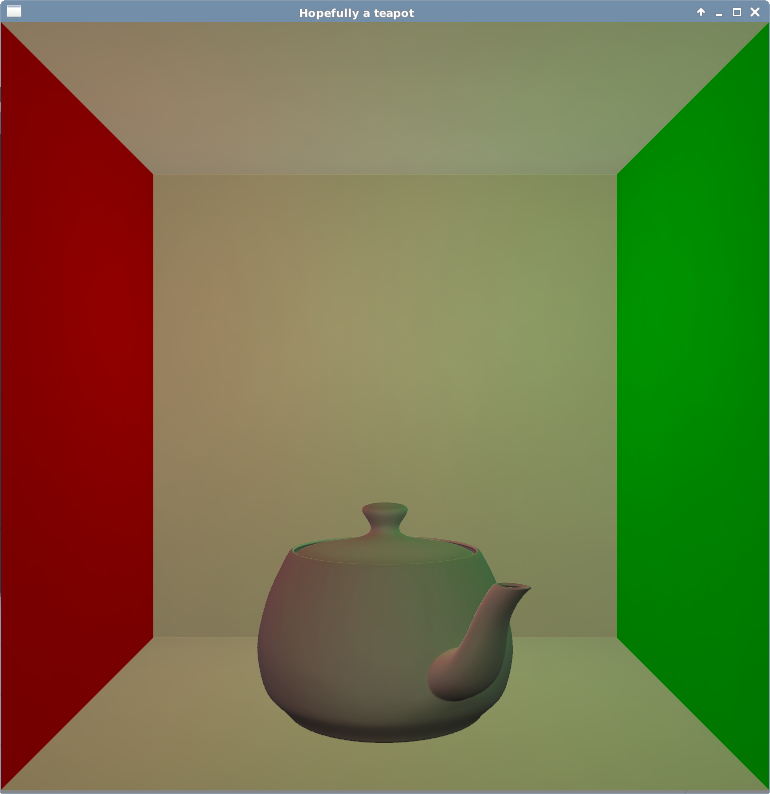
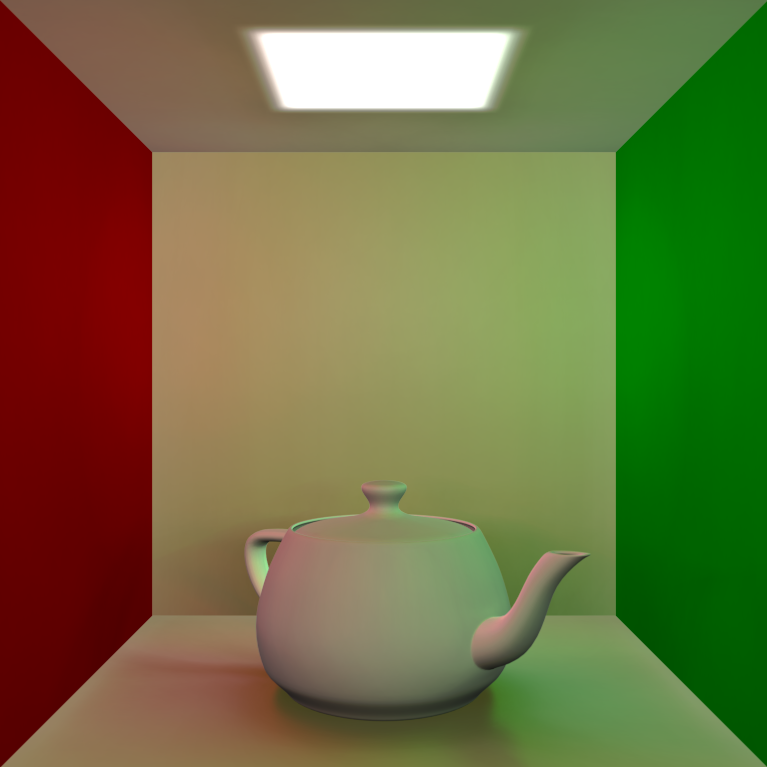
Added shaders that don't use lighting, tweaked some settings, and added anti-aliasing and a blur on the light

diff --git a/main.c b/main.c
@@ -147,6 +147,11 @@ void loadBox(float dx, float dy, float dz)
 	dx /= 2.0;
 	dy /= 2.0;
 	dz /= 2.0;
+
+	Vector3f red = {1.0, 0.0, 0.0};
+	Vector3f green = {0.0, 1.0, 0.0};
+	Vector3f white = {1.0, 1.0, 1.0};
+
 	Vector3f vertices[] = 
 	{
 		// Back Face
@@ -208,30 +213,48 @@ void loadBox(float dx, float dy, float dz)
 	Vector3f colors[] = 
 	{
 		// Back Face
-		{	 1.0,  1.0,  1.0	},
-	 	{	 1.0,  1.0,  1.0	},
-		{	 1.0,  1.0,  1.0	},
-		{	 1.0,  1.0,  1.0	},
+		white, white, white, white,
 		// Right Face
-		{	 0.0,  1.0,  0.0	},
-	 	{	 0.0,  1.0,  0.0	},
-		{	 0.0,  1.0,  0.0	},
-		{	 0.0,  1.0,  0.0	},
+		green, green, green, green,
 		// Left Face
-		{	 1.0,  0.0,  0.0	},
-	 	{	 1.0,  0.0,  0.0	},
-		{	 1.0,  0.0,  0.0	},
-		{	 1.0,  0.0,  0.0	},
+		red, red, red, red,
 		// Top Face
-		{	 1.0,  1.0,  1.0	},
-	 	{	 1.0,  1.0,  1.0	},
-		{	 1.0,  1.0,  1.0	},
-		{	 1.0,  1.0,  1.0	},
+		white, white, white, white,
 		// Bottom Face
-		{	 1.0,  1.0,  1.0	},
-	 	{	 1.0,  1.0,  1.0	},
-		{	 1.0,  1.0,  1.0	},
-		{	 1.0,  1.0,  1.0	}
+		white, white, white, white
+	};
+
+	Vector2f texCoords[] =
+	{
+		{	0.0,  0.0	},
+		{	1.0,  0.0	},
+		{	1.0,  1.0	},
+		{	0.0,  1.0	},
+
+		{	0.0,  0.0	},
+		{	1.0,  0.0	},
+		{	1.0,  1.0	},
+		{	0.0,  1.0	},
+
+		{	0.0,  0.0	},
+		{	1.0,  0.0	},
+		{	1.0,  1.0	},
+		{	0.0,  1.0	},
+
+		{	0.0,  0.0	},
+		{	1.0,  0.0	},
+		{	1.0,  1.0	},
+		{	0.0,  1.0	},
+
+		{	0.0,  0.0	},
+		{	1.0,  0.0	},
+		{	1.0,  1.0	},
+		{	0.0,  1.0	},
+
+		{	0.0,  0.0	},
+		{	1.0,  0.0	},
+		{	1.0,  1.0	},
+		{	0.0,  1.0	}
 	};
 	
 	sceneData.box.vertices = malloc(sizeof(Vector3f) * 20);
@@ -257,10 +280,10 @@ void loadTopLight(float dx, float dy, float dz)
 	Vector3f vertices[] = 
 	{
 		// Top Light
-		{	-dx/3.0,  dy-0.001,  dz/3.0	},
-		{	-dx/3.0,  dy-0.001, -dz/3.0	},
-		{	 dx/3.0,  dy-0.001, -dz/3.0	},
-		{	 dx/3.0,  dy-0.001,  dz/3.0	}
+		{	-dx/3.0,  0.0,  dz/3.0	},
+		{	-dx/3.0,  0.0, -dz/3.0	},
+		{	 dx/3.0,  0.0, -dz/3.0	},
+		{	 dx/3.0,  0.0,  dz/3.0	}
 	};
 
 	Vector3f normals[] =
@@ -296,27 +319,44 @@ void loadTopLight(float dx, float dy, float dz)
 	}
 }
 
-void display() 
+float myrand() { return ((float)(rand() % 100000)/100000.0 - 0.5); }
+
+// flag - 0 = render with shadows, 1 = render without shadows
+void display(int flag) 
 {
 	glClear(GL_COLOR_BUFFER_BIT|GL_DEPTH_BUFFER_BIT);
 
 	glEnableClientState(GL_COLOR_ARRAY);
 	glUseProgram(0);
 
+	Vector3f lightJitter = {myrand()*0.4, myrand()*0.07, myrand()*0.07}; //myrand()*0.05};
+	Vector3f aaJitter = {myrand(), myrand(), myrand()};
+	aaJitter = mul(aaJitter, 0.003);
+
 	// Render light
 	glVertexPointer(3, GL_FLOAT, 0, sceneData.toplight.vertices);
 	glColorPointer(3, GL_FLOAT, 0, sceneData.toplight.colors);
 	glNormalPointer(GL_FLOAT, 0, sceneData.toplight.normals);
-	glDrawElements(GL_QUADS, 4, GL_UNSIGNED_BYTE, sceneData.toplight.indices);
+	glPushMatrix();
+		glTranslatef(lightJitter.y, 0.9999, lightJitter.z);
+		glScalef(1.0-lightJitter.x, 1.0-lightJitter.x, 1.0-lightJitter.x);
+		glDrawElements(GL_QUADS, 4, GL_UNSIGNED_BYTE, sceneData.toplight.indices);
+	glPopMatrix();
 
-	glUseProgram(boxShaderProgramID);
+	glUseProgram(phongProgramID);
+
+	if (!flag) glUseProgram(boxShaderProgramID);
 	// Load box data into GPU
 	glVertexPointer(3, GL_FLOAT, 0, sceneData.box.vertices);
 	glColorPointer(3, GL_FLOAT, 0, sceneData.box.colors);
 	glNormalPointer(GL_FLOAT, 0, sceneData.box.normals);
-	glDrawElements(GL_QUADS, 20, GL_UNSIGNED_BYTE, sceneData.box.indices);
 
-	glUseProgram(teapotShaderProgramID);
+	glPushMatrix();
+		glTranslatef(aaJitter.x, aaJitter.y, aaJitter.z);
+		glDrawElements(GL_QUADS, 20, GL_UNSIGNED_BYTE, sceneData.box.indices);
+	glPopMatrix();
+
+	if (!flag) glUseProgram(teapotShaderProgramID);
 
 	// Load teapot data into GPU
 	glVertexPointer(3, GL_FLOAT, 0, sceneData.teapot.vertices);
@@ -325,7 +365,7 @@ void display()
 
 	// Stores the current matrix configuration to allow for local transformations
 	glPushMatrix();
-		glTranslatef(0.0, -1.0, 0.0);
+		glTranslatef(aaJitter.x, aaJitter.y-1.0, aaJitter.z);
 		glRotatef(50.0, 0.0, 1.0, 0.0);
 		glScalef(0.5, 0.5, 0.5);
 		glDrawElements(GL_QUADS, sceneData.teapot.curIndex, GL_UNSIGNED_INT, sceneData.teapot.indices);
@@ -356,12 +396,12 @@ int createLights(Vector3f pos, Vector3f color) {
   //glLightfv(GL_LIGHT0,GL_AMBIENT,light0_ambient);
   glLightfv(GL_LIGHT0,GL_DIFFUSE,light0_diffuse);
   glLightfv(GL_LIGHT0,GL_SPECULAR,light0_specular);
-/*  glLightf(GL_LIGHT0,GL_SPOT_EXPONENT,1.0);
-  glLightf(GL_LIGHT0,GL_SPOT_CUTOFF,180.0);
+  //glLightf(GL_LIGHT0,GL_SPOT_EXPONENT,1.0);
+  //glLightf(GL_LIGHT0,GL_SPOT_CUTOFF,180.0);
   glLightf(GL_LIGHT0,GL_CONSTANT_ATTENUATION,0.5);
   glLightf(GL_LIGHT0,GL_LINEAR_ATTENUATION,0.001);
   glLightf(GL_LIGHT0,GL_QUADRATIC_ATTENUATION,0.0001);
-*/  glLightfv(GL_LIGHT0,GL_POSITION,light0_position);
+  glLightfv(GL_LIGHT0,GL_POSITION,light0_position);
   glLightfv(GL_LIGHT0,GL_SPOT_DIRECTION,light0_direction);
 
   glEnable(GL_LIGHT0);
@@ -542,7 +582,7 @@ void renderWithShadows(Vector3f lightPosition, Vector3f lightColor)
 
 		Vector3f l0_pos = {light0_position[0], light0_position[1], light0_position[2]};
 		createLights(l0_pos, lightColor);
-		display();
+		display(0);
 	glBindFramebufferEXT(GL_FRAMEBUFFER, 0);
 
 	// Store this viewpoint matrix into texture matrix 7
@@ -555,13 +595,13 @@ void renderWithShadows(Vector3f lightPosition, Vector3f lightColor)
 	glBindTexture(GL_TEXTURE_2D, 1);
 
 	eyepoint[0] = 0.0, eyepoint[1] = 0.0, eyepoint[2] = -3.0;
-	viewpoint[0] = 0.0, viewpoint[1] = 0.0, viewpoint[2] = 3.0;
+	viewpoint[0] = 0.0, viewpoint[1] = 0.0, viewpoint[2] = 0.0;
 
 	ep.x = eyepoint[0], ep.y = eyepoint[1], ep.z = eyepoint[2];
 	vp.x = viewpoint[0], vp.y = viewpoint[1], vp.z = viewpoint[2];
 	createViewVolume(ep, vp);
 	createLights(l0_pos, lightColor);
-	display();
+	display(0);
 }
 
 int trace(int j, int N, Vector3f currentRay, Vector3f v0, Vector3f v1, Vector3f v2)
@@ -576,10 +616,12 @@ int trace(int j, int N, Vector3f currentRay, Vector3f v0, Vector3f v1, Vector3f 
 		if (lightPosition.y <= 0.0) lightPosition.y = 0.0;
 
 		color = sceneData.box.colors[j];
-		color = mul(color, 0.5);
+		color = mul(color, 0.5); // Dampen the colors
+
 
 		renderWithShadows(lightPosition, color);
 
+		//glAccum(GL_ACCUM, 1.0/(float)N * 0.7);
 		glAccum(GL_ACCUM, 1.0/(float)N);
 		return 1;
 	}
@@ -588,8 +630,20 @@ int trace(int j, int N, Vector3f currentRay, Vector3f v0, Vector3f v1, Vector3f 
 
 void renderScene()
 {
-	int N = 300;
+	int N = 1000;
 	glClear(GL_ACCUM_BUFFER_BIT);
+
+/*
+	Vector3f lightPos = {0.0, 0.0, 0.0};
+	Vector3f lightColor = {1.0, 1.0, 0.8};
+	Vector3f eyePos = {0.0, 0.0, -3.0};
+	Vector3f viewPos = {0.0, 0.0, 3.0};
+
+	createViewVolume(eyePos, viewPos);
+	createLights(lightPos, lightColor);
+	display(1);
+	glAccum(GL_ACCUM, 1.0 * 0.3);
+*/
 
 	int i;
 	for (i = 0; i < N; i++)
@@ -601,7 +655,7 @@ void renderScene()
 
 		int j;
 
-		// Make sure the ray is at least a candidate to hit the teapot
+		// Make sure the ray is at least a candidate to hit the teapot (pruning)
 		if (currentRay.y < 0.0 && abs(currentRay.x) < 0.4 && abs(currentRay.z) < 0.4) {
 
 			// Take this out if you want to render A LOT faster
@@ -631,14 +685,8 @@ void renderScene()
 
 		for (j = 0; j < 20; j+=4)
 		{
+			//Pruning
 			switch(j) {
-				//back
-				case 0:
-				case 1:
-				case 2:
-				case 3:
-					if (currentRay.z < 0.0) continue;
-					break;
 				//right
 				case 4:
 				case 5:
@@ -653,22 +701,10 @@ void renderScene()
 				case 11:
 					if (currentRay.x < 0.0) continue;
 					break;
-				//top
-				case 12:
-				case 13:
-				case 14:
-				case 15:
-					if (currentRay.y < 0.0) continue;
-					break;
-				//bottom
-				case 16:
-				case 17:
-				case 18:
-				case 19:
-				case 20:
-					if (currentRay.y > 0.0) continue;
+				default:
 					break;
 			}
+			
 			v0 = sceneData.box.vertices[j];
 			v1 = sceneData.box.vertices[j+1];
 			v2 = sceneData.box.vertices[j+2];
@@ -698,7 +734,9 @@ void prepareFramebuffer()
 	// Back to default.
 	glBindTexture(GL_TEXTURE_2D, 0);
 
-	glBindFramebufferEXT(GL_FRAMEBUFFER,1);
+	GLuint frameBufferID;
+	glGenFramebuffers(1, &frameBufferID);
+	glBindFramebufferEXT(GL_FRAMEBUFFER,frameBufferID);
 	glDrawBuffer(GL_NONE); // No color buffers will be written.
 	// Attach this framebuffer (id #1 above) to texture (id #1 is penultimate arg),
 	// so that we can perform an offscreen render-to-texture.
@@ -707,13 +745,48 @@ void prepareFramebuffer()
 	glBindFramebufferEXT(GL_FRAMEBUFFER,0);
 }
 
+int loadTexture(const char *filename) {
+	FILE *fopen(), *fptr;
+	char buf[512];
+	int im_size, im_width, im_height, max_color;
+	unsigned char *texture_bytes, *parse;
+
+	fptr=fopen(filename,"r");
+	if (!fptr) return -1;
+	fgets(buf,512,fptr);
+	do{
+	fgets(buf,512,fptr);
+	} while(buf[0]=='#');
+
+	parse = strtok(buf," \t");
+	im_width = atoi(parse);
+
+	parse = strtok(NULL," \n");
+	im_height = atoi(parse);
+
+	fgets(buf,512,fptr);
+	parse = strtok(buf," \n");
+	max_color = atoi(parse);
+
+	im_size = im_width*im_height;
+	texture_bytes = (unsigned char *)calloc(3,im_size);
+	fread(texture_bytes,3,im_size,fptr);
+	fclose(fptr);
+	glGenTextures(1, &floorTextureID);
+	glBindTexture(GL_TEXTURE_2D, floorTextureID);
+	glTexImage2D(GL_TEXTURE_2D,0,GL_RGB,im_width,im_height,0,GL_RGB,
+	           GL_UNSIGNED_BYTE,texture_bytes);
+	glTexParameterf(GL_TEXTURE_2D,GL_TEXTURE_MIN_FILTER,GL_NEAREST);
+	glTexParameterf(GL_TEXTURE_2D,GL_TEXTURE_MAG_FILTER,GL_NEAREST);
+	cfree(texture_bytes);
+
+	return 0;
+}
+
 int main(int argc, char **argv) 
 {
 	init(argc, argv);
 
-	// This prepares the framebuffer to be filled with the depth component\
-	//     and tells OpenGL that the framebuffer should be stored in a texture with id = 1
-	// It doesn't actually fill the framebuffer with any data
 	printf("Preparing Framebuffer...\n");
 	prepareFramebuffer();
 
@@ -725,6 +798,7 @@ int main(int argc, char **argv)
 	printf("Loading Shaders...\n");
 	boxShaderProgramID = loadShaders("boxShader.vert", "boxShader.frag");
 	teapotShaderProgramID = loadShaders("teapotShader.vert", "teapotShader.frag");
+	phongProgramID = loadShaders("phong.vert", "phong.frag");
 
 	glutDisplayFunc(renderScene);
 	glutIdleFunc(update);

diff --git a/global.h b/global.h
@@ -28,7 +28,8 @@ typedef struct data {
 } SceneData;
 
 SceneData sceneData;
-unsigned int boxShaderProgramID, teapotShaderProgramID;
+unsigned int boxShaderProgramID, teapotShaderProgramID, phongProgramID;
+unsigned int floorTextureID;
 float teapotRotation = 0.0;
 GLfloat light0_position[4] = {0.0, 0.99, 0.0, 1.0};
 GLfloat light0_direction[] = {-0.8, 0.0, 0.0};
